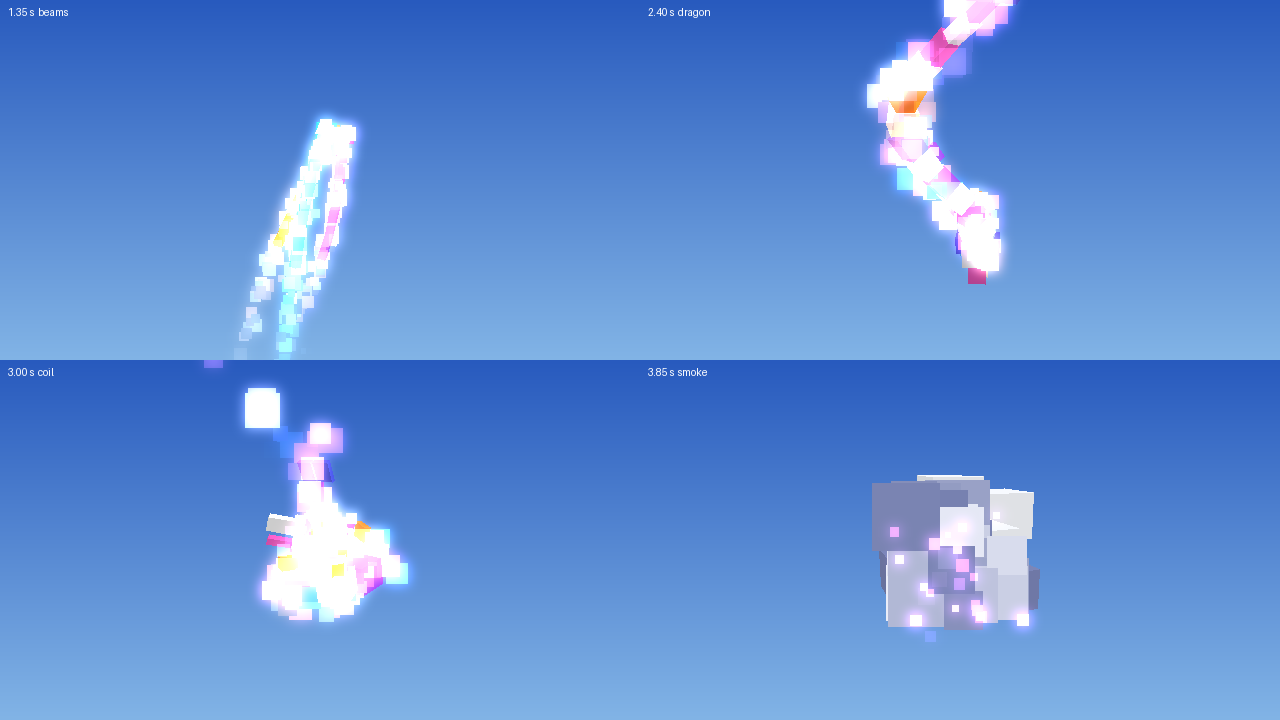
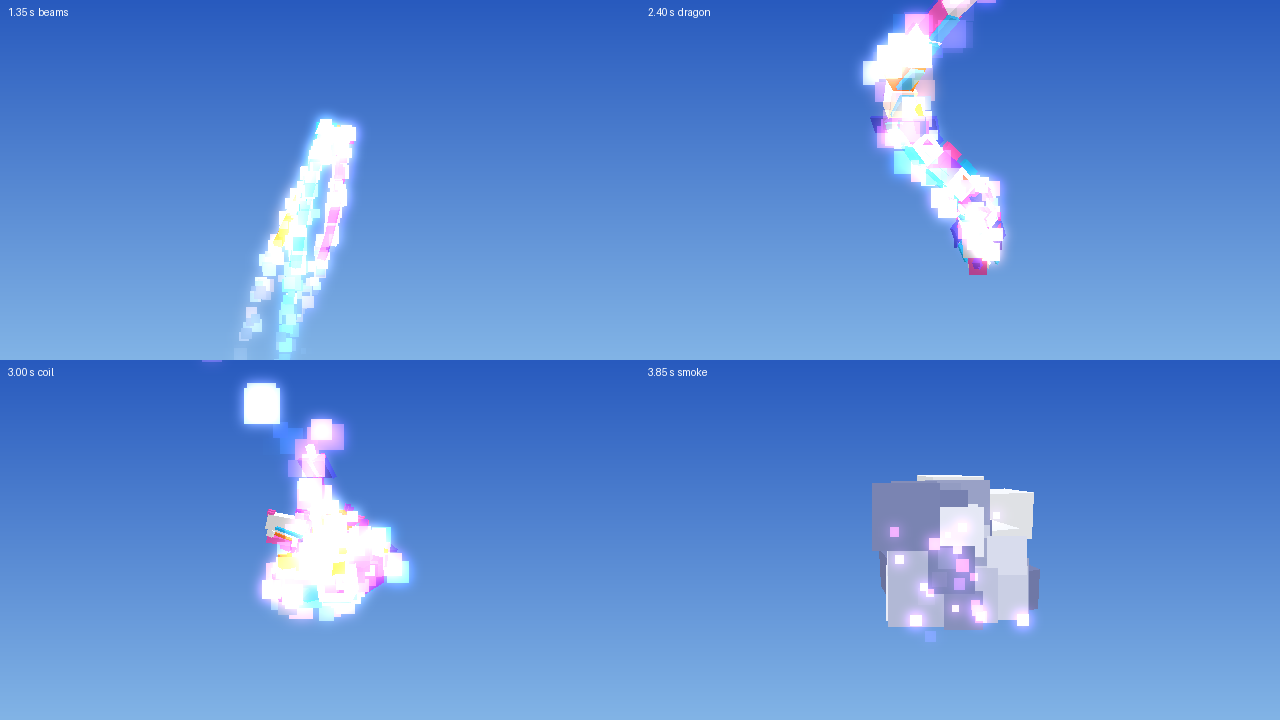
Dragon has 94 parts at full detail with detail levels; remove the cooldown

diff --git a/dragon_pulse/world_code.js b/dragon_pulse/world_code.js
@@ -1,7 +1,6 @@
 var DP_CFG = {
   chat: "!dp",
   item: "",
-  cooldown: 8,
   range: 40,
   rise: 16,
   lean: 0.3,
@@ -14,7 +13,8 @@ var DP_CFG = {
   sounds: true,
   hideDist: 96,
   maxCasts: 3,
-  maxMeshes: 70,
+  detail: 3,
+  maxMeshes: 130,
 }
 
 var DP_COL = {
@@ -41,33 +41,76 @@ var DP_MESH = {
     ["skull", 1.5, 1.25, 1.6, "white", 0, 0, 0],
     ["snout", 1.05, 0.6, 1.3, "white", 1.35, 0, 0.18],
     ["jaw", 0.9, 0.26, 1.35, "pink", 1.2, 0, -0.58],
-    ["hornL", 0.26, 0.26, 1.2, "violet", -1.05, -0.5, 0.8],
-    ["hornR", 0.26, 0.26, 1.2, "violet", -1.05, 0.5, 0.8],
-    ["crest", 0.3, 0.5, 1.0, "orange", -0.35, 0, 0.85],
-    ["eyeL", 0.3, 0.3, 0.3, "cyan", 0.5, -0.78, 0.25],
-    ["eyeR", 0.3, 0.3, 0.3, "cyan", 0.5, 0.78, 0.25],
-    ["finL", 0.2, 0.7, 0.95, "blue", -0.45, -0.98, -0.05],
-    ["finR", 0.2, 0.7, 0.95, "blue", -0.45, 0.98, -0.05],
+    ["horn", 0.26, 0.26, 1.2, "violet", -1.05, 0.5, 0.8, "m"],
+    ["crest", 0.3, 0.5, 1, "orange", -0.35, 0, 0.85],
+    ["eye", 0.3, 0.3, 0.3, "cyan", 0.5, 0.78, 0.25, "m"],
+    ["fin", 0.2, 0.7, 0.95, "blue", -0.45, 0.98, -0.05, "m"],
+    ["brow", 0.5, 0.2, 0.75, "violet", 0.5, 0.55, 0.68, "m2"],
+    ["fangUp", 0.14, 0.32, 0.14, "white", 1.85, 0.36, -0.24, "m2"],
+    ["fangLow", 0.12, 0.26, 0.12, "white", 1.72, 0.3, -0.34, "m2"],
+    ["throat", 0.6, 0.3, 0.45, "gold", 0.72, 0, -0.28, "2"],
+    ["whisker", 0.12, 0.12, 1.3, "cyan", 1.05, 0.82, -0.05, "m2"],
+    ["antler", 0.2, 0.6, 0.2, "violet", -1.35, 0.5, 1.15, "m2"],
+    ["mane", 0.9, 0.5, 0.5, "pink", -1, 0, 0.55, "2"],
+    ["pupil", 0.12, 0.2, 0.2, "white", 0.56, 0.92, 0.25, "m3"],
+    ["teeth", 0.08, 0.14, 0.9, "white", 1.2, 0.44, -0.18, "m3"],
+    ["tongue", 0.4, 0.1, 0.95, "orange", 1.15, 0, -0.4, "3"],
+    ["nostril", 0.2, 0.16, 0.2, "pink", 1.92, 0.3, 0.5, "m3"],
+    ["whiskerTip", 0.1, 0.1, 1.2, "blue", -0.1, 1.15, -0.2, "m3"],
+    ["hornTip", 0.18, 0.18, 0.6, "pink", -1.9, 0.5, 0.95, "m3"],
+    ["maneBack", 0.6, 0.45, 0.5, "violet", -1.45, 0, 0.78, "3"],
+    ["cheekFrill", 0.14, 0.5, 0.6, "pink", -0.95, 1, 0.25, "m3"],
+    ["chin", 0.3, 0.3, 0.45, "violet", 1, 0, -0.82, "3"],
+    ["beard", 0.2, 0.45, 0.2, "violet", 0.68, 0, -0.98, "3"],
   ],
 
   body: [
     ["neck1", 1.3, 1.15, 1.1, "white", -1.35, 0, 0],
+    ["spine1", 0.25, 0.6, 0.8, "orange", -1.35, 0, 0.85, "2"],
+    ["belly1", 0.91, 0.14, 0.95, "cyan", -1.35, 0, -0.61, "2"],
+    ["patch1", 0.1, 0.52, 0.6, "pink", -1.3, 0.68, 0.09, "m3"],
     ["neck2", 1.25, 1.1, 1.1, "pink", -2.5, 0, 0],
-    ["spine1", 0.25, 0.6, 0.8, "orange", -2.5, 0, 0.8],
+    ["spine2", 0.25, 0.57, 0.8, "violet", -2.5, 0, 0.81],
+    ["belly2", 0.88, 0.14, 0.95, "cyan", -2.5, 0, -0.59, "2"],
+    ["patch2", 0.1, 0.5, 0.6, "blue", -2.45, 0.66, 0.09, "m3"],
+    ["sideFin2", 0.9, 0.12, 0.7, "blue", -2.6, 1.04, -0.1, "m2"],
     ["back1", 1.2, 1.05, 1.1, "white", -3.65, 0, 0],
-    ["back2", 1.15, 1.0, 1.1, "violet", -4.8, 0, 0],
+    ["spine3", 0.25, 0.55, 0.8, "cyan", -3.65, 0, 0.78, "2"],
+    ["belly3", 0.84, 0.14, 0.95, "cyan", -3.65, 0, -0.57, "2"],
+    ["patch3", 0.1, 0.47, 0.6, "orange", -3.6, 0.63, 0.08, "m3"],
+    ["back2", 1.15, 1, 1.1, "violet", -4.8, 0, 0],
+    ["spine4", 0.25, 0.52, 0.8, "pink", -4.8, 0, 0.74, "2"],
+    ["belly4", 0.8, 0.14, 0.95, "cyan", -4.8, 0, -0.54, "2"],
+    ["patch4", 0.1, 0.45, 0.6, "violet", -4.75, 0.6, 0.08, "m3"],
     ["back3", 1.1, 0.95, 1.1, "white", -5.95, 0, 0],
-    ["spine2", 0.25, 0.55, 0.8, "violet", -5.95, 0, 0.72],
-    ["back4", 1.0, 0.9, 1.1, "blue", -7.1, 0, 0],
+    ["spine5", 0.25, 0.49, 0.8, "blue", -5.95, 0, 0.7],
+    ["belly5", 0.77, 0.14, 0.95, "cyan", -5.95, 0, -0.52, "2"],
+    ["patch5", 0.1, 0.43, 0.6, "pink", -5.9, 0.58, 0.08, "m3"],
+    ["back4", 1, 0.9, 1.1, "blue", -7.1, 0, 0],
+    ["spine6", 0.25, 0.47, 0.8, "orange", -7.1, 0, 0.67, "2"],
+    ["belly6", 0.7, 0.14, 0.95, "cyan", -7.1, 0, -0.49, "2"],
+    ["sideFin6", 0.9, 0.12, 0.7, "blue", -7.2, 0.92, -0.1, "m2"],
     ["back5", 0.95, 0.85, 1.1, "white", -8.25, 0, 0],
+    ["spine7", 0.25, 0.44, 0.8, "violet", -8.25, 0, 0.63, "2"],
+    ["belly7", 0.66, 0.14, 0.95, "cyan", -8.25, 0, -0.46, "2"],
+    ["patch7", 0.1, 0.38, 0.6, "blue", -8.2, 0.51, 0.07, "m3"],
     ["back6", 0.85, 0.75, 1.1, "orange", -9.4, 0, 0],
-    ["spine3", 0.22, 0.5, 0.7, "cyan", -9.4, 0, 0.6],
+    ["spine8", 0.24, 0.39, 0.8, "cyan", -9.4, 0, 0.55],
+    ["belly8", 0.59, 0.14, 0.95, "cyan", -9.4, 0, -0.41, "2"],
     ["tail1", 0.75, 0.65, 1.1, "white", -10.55, 0, 0],
+    ["spine9", 0.21, 0.34, 0.6, "pink", -10.55, 0, 0.48, "2"],
+    ["belly9", 0.52, 0.14, 0.95, "cyan", -10.55, 0, -0.36, "2"],
+    ["patch9", 0.1, 0.29, 0.6, "orange", -10.5, 0.41, 0.05, "m3"],
     ["tail2", 0.62, 0.55, 1.1, "pink", -11.65, 0, 0],
+    ["spine10", 0.18, 0.29, 0.6, "blue", -11.65, 0, 0.41, "2"],
+    ["belly10", 0.43, 0.14, 0.95, "cyan", -11.65, 0, -0.32, "2"],
     ["tail3", 0.5, 0.45, 1.05, "white", -12.7, 0, 0],
-    ["tail4", 0.38, 0.35, 1.0, "violet", -13.7, 0, 0],
-    ["tailFinL", 0.7, 0.14, 0.8, "blue", -14.4, -0.4, 0],
-    ["tailFinR", 0.7, 0.14, 0.8, "blue", -14.4, 0.4, 0],
+    ["spine11", 0.15, 0.23, 0.6, "orange", -12.7, 0, 0.33, "2"],
+    ["tail4", 0.38, 0.35, 1, "violet", -13.7, 0, 0],
+    ["spine12", 0.12, 0.18, 0.6, "violet", -13.7, 0, 0.26, "2"],
+    ["tailFin", 0.7, 0.14, 0.8, "blue", -14.4, 0.4, 0, "m"],
+    ["tailTop", 0.14, 0.6, 0.7, "pink", -14.35, 0, 0.3, "2"],
+    ["tailTip", 0.2, 0.2, 0.6, "white", -15, 0, 0, "3"],
   ],
 
   flare: [
@@ -145,26 +188,47 @@ var dpLifeforms = () => api.getMobIds().concat(api.getPlayerIds())
 
 var dpCasts = []
 var dpMeshes = 0
-var dpClock = 0
-var dpLast = {}
+var dpRowCache = {}
+
+var dpFlag = (row, flag) => (row[8] || "").indexOf(flag) >= 0
+
+function dpRows(name) {
+  var key = name + DP_CFG.detail
+  if (dpRowCache[key]) return dpRowCache[key]
+  var out = []
+  DP_MESH[name].forEach((r) => {
+    var level = dpFlag(r, "3") ? 3 : dpFlag(r, "2") ? 2 : 1
+    if (level > DP_CFG.detail) return
+    if (!dpFlag(r, "m")) return out.push(r)
+    var right = r.slice()
+    var left = r.slice()
+    right[0] = r[0] + "R"
+    left[0] = r[0] + "L"
+    left[6] = -r[6]
+    out.push(right, left)
+  })
+  if (name === "body") out.sort((a, b) => b[5] - a[5])
+  return (dpRowCache[key] = out)
+}
 
 function dpBox(row, tint, k) {
   var col = DP_COL[row[4] === "tint" ? tint : row[4]]
-  var lit = row[8] === "lit"
+  var lit = dpFlag(row, "lit")
   return {
     width: row[1] * k,
     height: row[2] * k,
     depth: row[3] * k,
     diffuseColor: lit ? col : [0, 0, 0],
     emissiveColor: lit ? col.map((v) => v * 0.55) : col,
-    autoRotate: row[8] === "spin",
+    autoRotate: dpFlag(row, "spin"),
     hideDist: DP_CFG.hideDist,
   }
 }
 
 function dpPut(c, key, row, tint, pos, f) {
   var id = c.m[key]
-  if (!id) {
+  var fresh = !id
+  if (fresh) {
     if (dpMeshes >= DP_CFG.maxMeshes) return
     id = api.attemptCreateMeshEntity("Box", dpBox(row, tint, 1))
     if (!id) return
@@ -172,13 +236,13 @@ function dpPut(c, key, row, tint, pos, f) {
     dpMeshes++
   }
   api.setPosition(id, pos[0], pos[1], pos[2])
-  if (f && DP_CFG.rotate && row[8] !== "spin") {
+  if (f && DP_CFG.rotate && !dpFlag(row, "spin") && (fresh || (c.t + key.length) % 2 === 0)) {
     api.setEntityRotation(id, -Math.asin(Math.max(-1, Math.min(1, f[1]))), Math.atan2(f[0], f[2]), 0)
   }
 }
 
 function dpGroup(c, name, tag, tint, pos, B, k, still) {
-  var rows = DP_MESH[name]
+  var rows = dpRows(name)
   for (var i = 0; i < rows.length; i++) {
     var r = rows[i]
     dpPut(c, tag + r[0], r, tint, dpAt(pos, B, r[5] * k, r[6] * k, r[7] * k), still ? null : B[0])
@@ -186,7 +250,7 @@ function dpGroup(c, name, tag, tint, pos, B, k, still) {
 }
 
 function dpResize(c, name, tag, tint, k) {
-  DP_MESH[name].forEach((r) => {
+  dpRows(name).forEach((r) => {
     var id = c.m[tag + r[0]]
     if (id) api.updateMeshEntity(id, "Box", dpBox(r, tint, k))
   })
@@ -204,7 +268,7 @@ function dpDrop(c, tag) {
 }
 
 function dpBody(c) {
-  var rows = DP_MESH.body
+  var rows = dpRows("body")
   var P = c.path
   var j = P.length - 1
   var walked = 0
@@ -396,7 +460,7 @@ var DP_PHASE = [
     if (c.t === 0) dpDrop(c, "blast_")
     var out = 1 - Math.pow(1 - Math.min(1, (c.t + 1) / 14), 2)
     var k = c.t < 18 ? 1 : c.t < 23 ? 0.65 : 0.35
-    var rows = DP_MESH.smoke
+    var rows = dpRows("smoke")
     for (var i = 0; i < rows.length; i++) {
       var r = rows[i]
       dpPut(c, "smoke_" + r[0], r, "", dpAt(goal, c.B, r[5] * out, r[6] * out, 0.3 + r[7] * out + c.t * 0.03))
@@ -460,11 +524,6 @@ function dpPick(casterId, eye, f) {
 }
 
 function dragonPulse(playerId, eye, dir) {
-  var wait = DP_CFG.cooldown * 20 - (dpClock - (dpLast[playerId] === undefined ? -1e9 : dpLast[playerId]))
-  if (wait > 0) {
-    api.sendMessage(playerId, "Dragon Pulse is ready in " + Math.ceil(wait / 20) + " s", { color: "violet" })
-    return false
-  }
   if (dpCasts.length >= DP_CFG.maxCasts) return false
   var face = eye ? { camPos: eye, dir: dir } : api.getPlayerFacingInfo(playerId)
   var f = dpNorm(face.dir)
@@ -486,14 +545,12 @@ function dragonPulse(playerId, eye, dir) {
     goal: dpAdd(eye, f, Math.max(2, dpFree(eye, f, DP_CFG.range) - 0.5)),
     path: [],
   }
-  dpLast[playerId] = dpClock
   dpCasts.push(c)
   return true
 }
 globalThis.dragonPulse = dragonPulse
 
 function dpTick() {
-  dpClock++
   for (var i = dpCasts.length - 1; i >= 0; i--) {
     var c = dpCasts[i]
     try {

diff --git a/dragon_pulse/tools/render_model.py b/dragon_pulse/tools/render_model.py
@@ -69,7 +69,7 @@ def view(angle, height, title):
 
 # which way the model faces: from the middle of everything to the snout tip
 far = max(meshes, key=lambda m: m['p'][0] ** 2 + m['p'][2] ** 2 if m['p'][1] > 4.5 else 0)
-FACING = math.atan2(far['p'][0], far['p'][2])
+FACING = math.atan2(far['p'][0], far['p'][2]) if len(sys.argv) < 4 else 0.0  # a third argument: it faces +Z
 sheet = Image.new('RGB', (W * 2, H * 2))
 for i, (ang, hgt, title) in enumerate([(35, 3, 'front right'), (90, 1, 'right side'), (180, 3, 'back'), (-25, -1.5, 'front left, from the ground')]):
     sheet.paste(view(ang, hgt, f'{title}  ({len(meshes)} meshes)'), ((i % 2) * W, (i // 2) * H))

diff --git a/README.md b/README.md
@@ -75,8 +75,8 @@ again while one stands, that one stays: remove it first.
 
 | File | Goes into | Characters | Limit |
 |---|---|---|---|
-| `world_code.js` | World Code | 17,477 | 512,000 |
-| `goodra.js` | World Code, below `world_code.js` | 10,215 | 512,000 together: 27,693 |
+| `world_code.js` | World Code | 20,613 | 512,000 |
+| `goodra.js` | World Code, below `world_code.js` | 10,215 | 512,000 together: 30,829 |
 | `code_block.js` | Code Block | 18 | 32,000 |
 | `studio/particles_only.code_block.js` | Code Block | 13,414 | 32,000 |
 
@@ -92,7 +92,7 @@ The 20 frames cover 1.50 s to 6.25 s of the clip.
 | 01–03 | Three orbs charge: violet, orange and cyan, each with a white core | 6 meshes (core + turning shell per orb), glow and dust particles | 0.0–0.8 |
 | 04–05 | Three beams with white cores shoot up into the sky side by side | The orbs fly 16 blocks up with 4 beam pieces each, particle streaks behind | 0.8–1.5 |
 | 06 | The beams merge into one white column with a magenta and blue edge | White flash and ring where the beams meet, high up | 1.5 |
-| 07–11 | The energy becomes a serpent dragon: white body, mottled pink, violet, blue and orange, with a head and jaws. It arches over and dives after the target | 27 meshes: a 10-part head and a 17-part body that bends along the path the head flew. Skin shimmer and white outline particles | 1.5–3.3 |
+| 07–11 | The energy becomes a serpent dragon: white body, mottled pink, violet, blue and orange, with a head and jaws. It arches over and dives after the target | 94 meshes: a 38-part head and a 56-part body that bends along the path the head flew. Skin shimmer and white outline particles | 1.5–3.3 |
 | 12–16 | It wraps round the target; two yellow-orange stars flash | The dragon circles the target; two 4-part star meshes and gold sparks | 3.3–3.9 |
 | 17 | White explosion with thin arcs | White core mesh, flash, shock ring. Damage and knockback happen here | 3.9–4.1 |
 | 18–20 | Rolling white smoke with blue-grey shading, violet sparks left over | 8 smoke meshes that roll out and shrink, smoke and spark particles | 4.1–5.5 |
@@ -111,14 +111,25 @@ Every mesh is one row in `DP_MESH` in `world_code.js`:
 |---|---|---|
 | `orb` | 2 | Core and shell, used three times with the colours in `DP_ORBS` |
 | `beam` | 1 | One piece of beam, 4 behind each orb |
-| `head` | 10 | Skull, snout, jaw, two horns, crest, two eyes, two cheek fins |
-| `body` | 17 | Neck, back and tail from thick to thin, three back spines, two tail fins |
+| `head` | 38 | Skull, snout and open jaw; horns with antlers and tips; brows, eyes and pupils; fangs, teeth, tongue and a glowing throat; whiskers, nostrils, mane, cheek frills, chin and beard |
+| `body` | 56 | 12 segments from thick neck to thin tail, a spine on each, belly plates, coloured patches on both sides, two pairs of side fins, tail fins |
 | `flare` | 4 | The yellow star: a core and three rays |
 | `blast` | 1 | The white core of the explosion |
 | `smoke` | 8 | White and blue-grey puffs |
 
 To change a part, change its row. To add one, add a row: the engine picks it up.
-At most 31 meshes exist at once, and all are deleted when the move ends.
+The numbers are meshes made at full detail; parts on both sides are written once
+and mirrored. `detail` in `DP_CFG` sets how much of the dragon is made: 1 gives 27
+meshes, 2 gives 63, 3 gives 94.
+
+![The dragon laid out straight](dragon_pulse/preview/dragon.png)
+
+![The dragon's head](dragon_pulse/preview/dragon_head.png)
+
+*Drawn outside the game with plain light so the parts can be told apart. In the
+game they glow.*
+
+At most 98 meshes exist at once in one cast, and all are deleted when the move ends.
 
 ## The particles
 
@@ -144,7 +155,6 @@ Code, meshes, aiming or damage.
 |---|---|
 | `chat` | Chat message that casts the move. `""` turns it off |
 | `item` | Held item that casts it on right click. `""` turns it off |
-| `cooldown` | Seconds between two casts of one player |
 | `range` | Blocks around the caster in which the dragon finds a target |
 | `rise` | Blocks the beams fly up before they become the dragon |
 | `lean` | How far the beams lean forward on the way up. 0 is straight up |
@@ -157,7 +167,8 @@ Code, meshes, aiming or damage.
 | `sounds` | Play sounds |
 | `hideDist` | Players further away than this many blocks do not see it |
 | `maxCasts` | Casts that may run at once in the world |
-| `maxMeshes` | Mesh entities the move may hold at once |
+| `detail` | 1, 2 or 3: how many parts the dragon has |
+| `maxMeshes` | Mesh entities all running casts may hold together |
 
 `GOODRA_CFG` at the top of `goodra.js`:
 
@@ -179,7 +190,9 @@ Code, meshes, aiming or damage.
   In `body`, forward is how far behind the head the part follows (negative). In
   `smoke`, it is where the puff ends up.
 - colour: a name from `DP_COL`. `"tint"` is the colour of the orb it belongs to.
-- flag: `"spin"` turns by itself, `"lit"` is shaded instead of glowing.
+- flag: `spin` turns by itself, `lit` is shaded instead of glowing. `m` makes the
+  part twice, mirrored left and right (write it for the right side). `2` or `3`
+  makes it only at that detail level or higher.
 
 **`GOODRA_MESH`**: `[name, width, height, depth, colour, forward, right, up, tilt, turn, lean, flags]`
 
@@ -222,7 +235,12 @@ It cannot show how the game draws it. Things to look at first in your world:
   angles go. If the beams or the dragon's parts point the wrong way, set
   `rotate: false`: the parts then stay level, in the right places.
 - **Mesh limit.** The game limits mesh entities but does not publish the number.
-  If parts of the dragon are missing, lower `maxCasts`, or remove rows from `body`.
+  If parts of the dragon are missing, lower `detail`.
+- **Many casts at once.** There is no cooldown. Up to `maxCasts` (3) casts run
+  together and share `maxMeshes` (130), so a second dragon at full detail is cut
+  short while the first still flies. Lower `detail` or raise `maxMeshes` for more.
+- **Speed.** At full detail the dragon makes about 160 api calls per tick. If the
+  game stutters or stops the script, lower `detail`.
 - **Code block.** `code_block.js` calls a function defined in World Code. If your
   world reports that `dragonPulse` is not defined, use the chat word or the item.
 - **Roofs and walls.** Under a roof the beams stop below it. The dragon itself
@@ -243,6 +261,7 @@ It cannot show how the game draws it. Things to look at first in your world:
 | `dragon_pulse/studio/build_scene.mjs` | Writes the scene and checks it with the studio's code |
 | `dragon_pulse/tools/sim.mjs` | The test run: `node dragon_pulse/tools/sim.mjs --target` |
 | `dragon_pulse/tools/goodra_check.mjs` | The test of Goodra: `node dragon_pulse/tools/goodra_check.mjs` |
-| `dragon_pulse/tools/render_model.py` | Draws Goodra (needs Pillow) |
+| `dragon_pulse/tools/dragon_model.mjs` | Lays the dragon out straight for a drawing |
+| `dragon_pulse/tools/render_model.py` | Draws Goodra and the dragon (needs Pillow) |
 | `dragon_pulse/tools/render.py` | Draws the test run (needs Pillow) |
 | `dragon_pulse/preview/` | The drawings |
